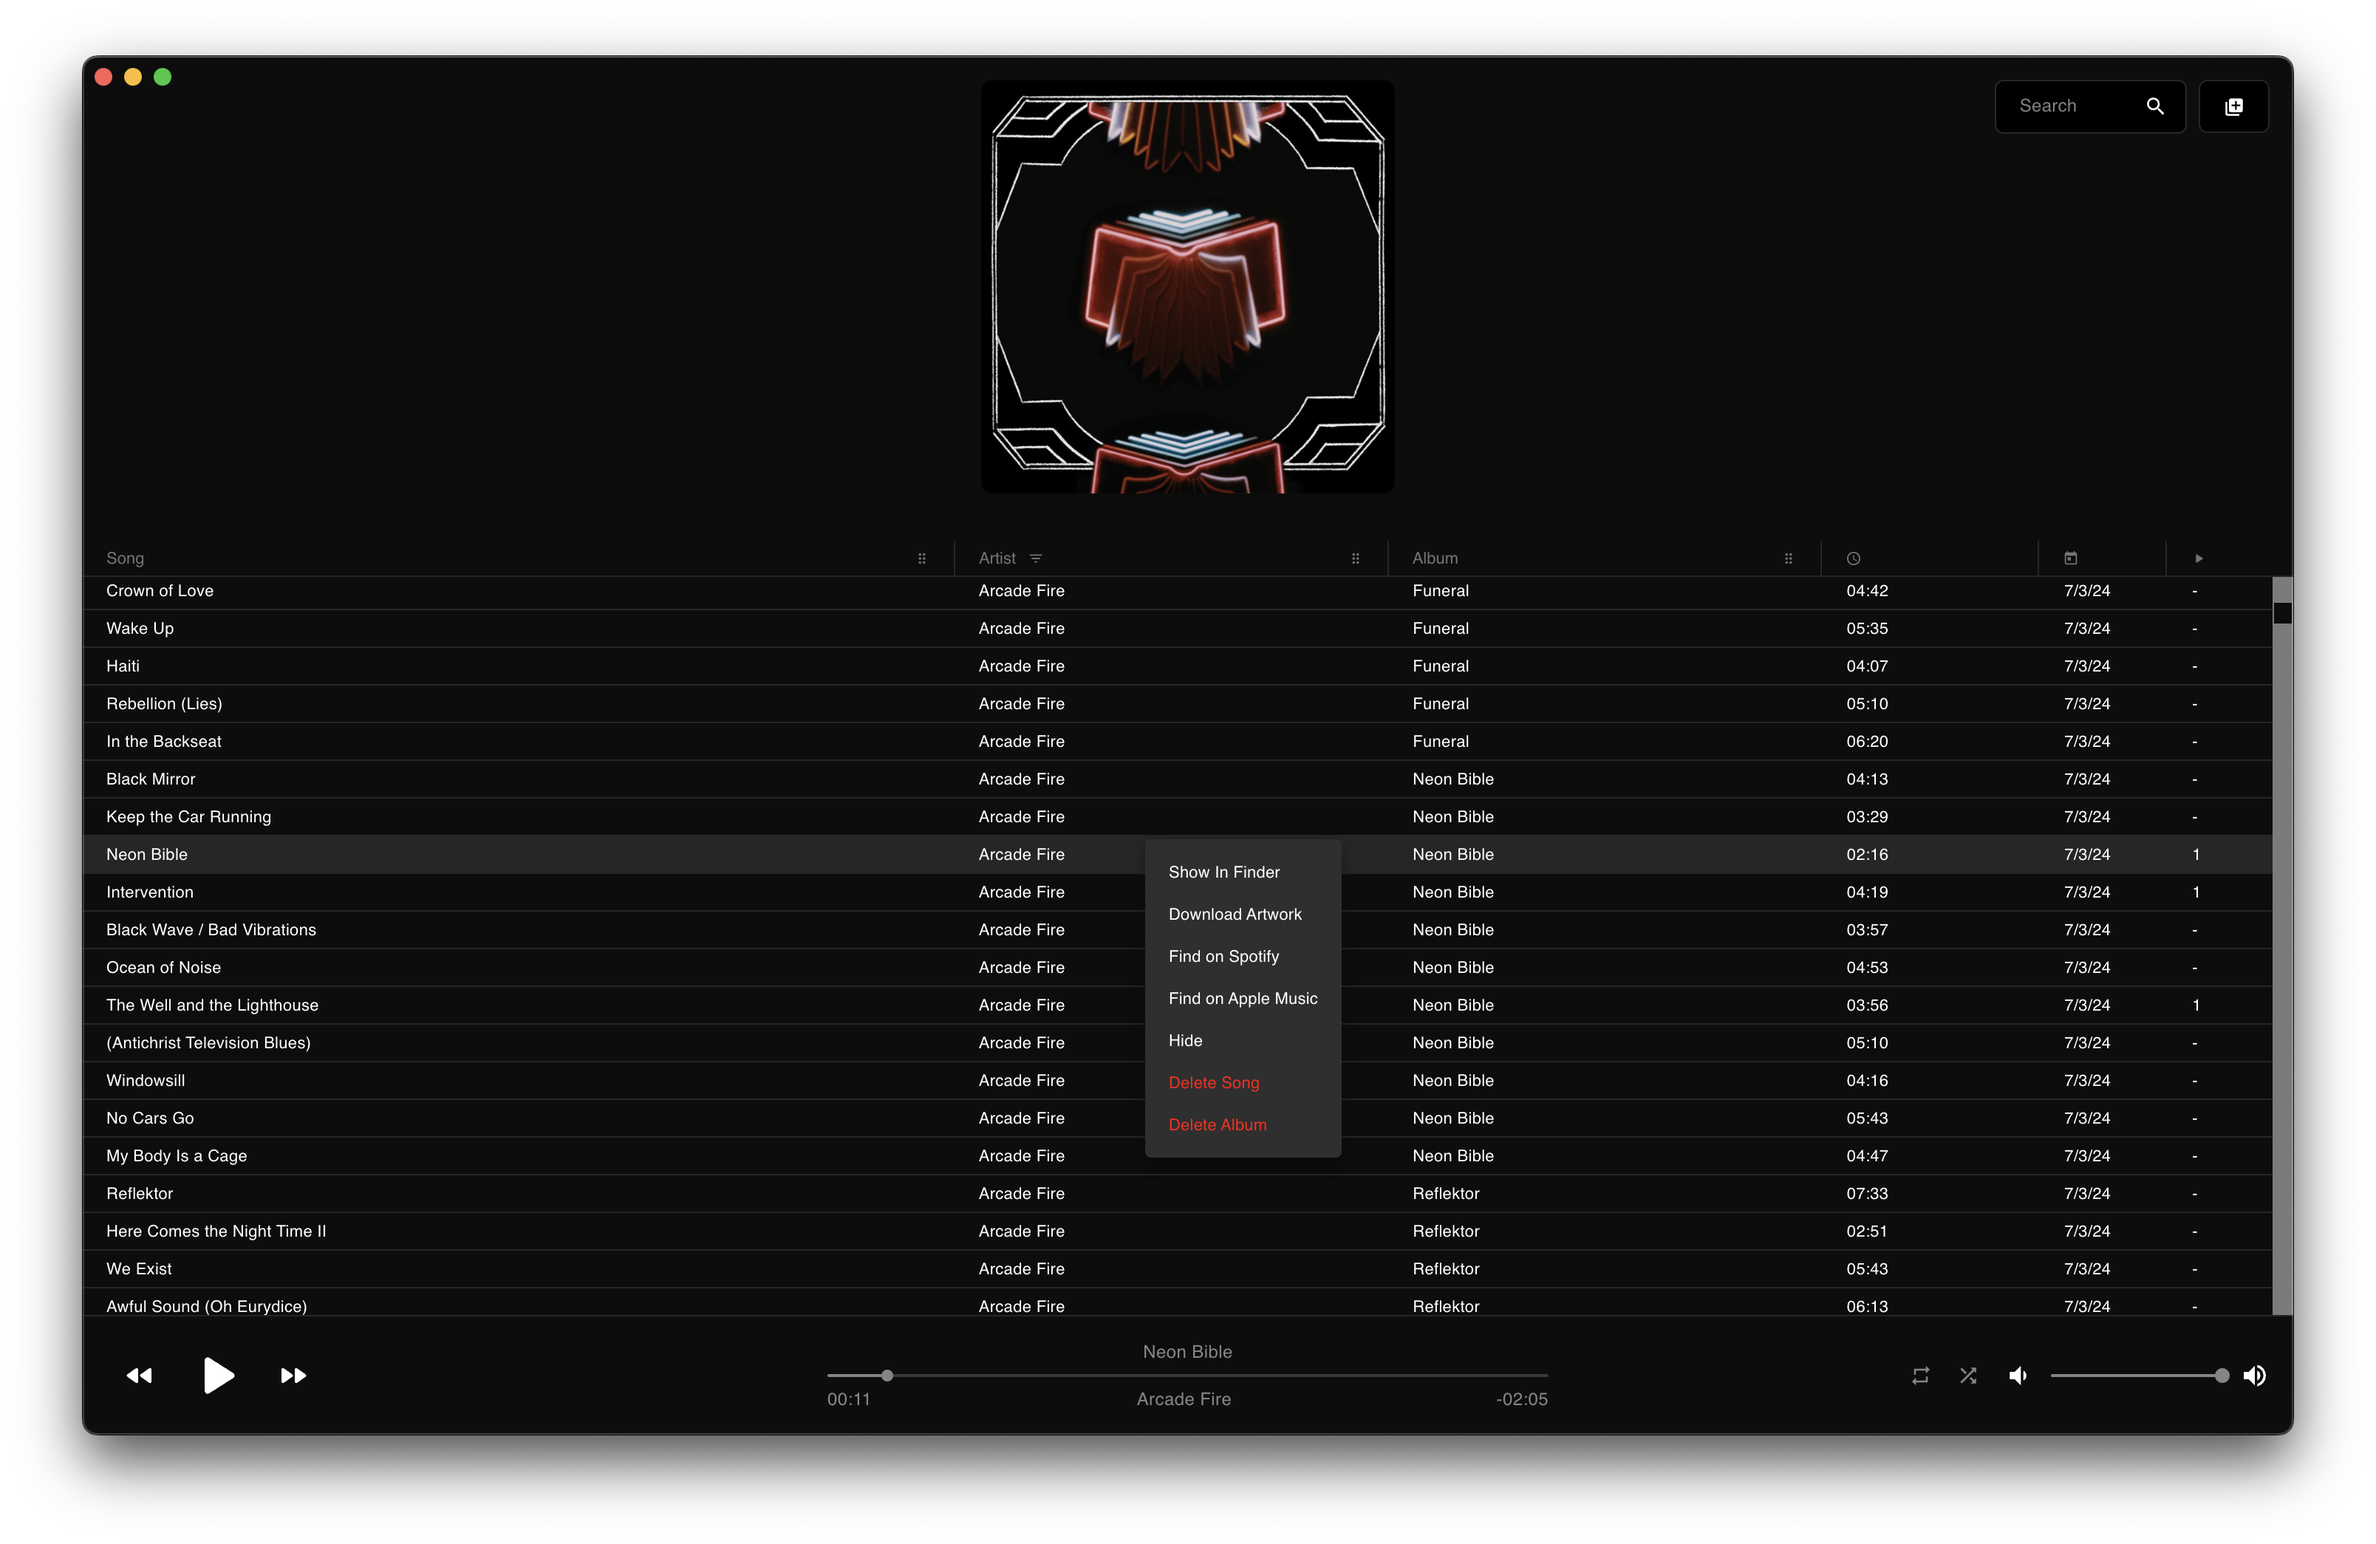
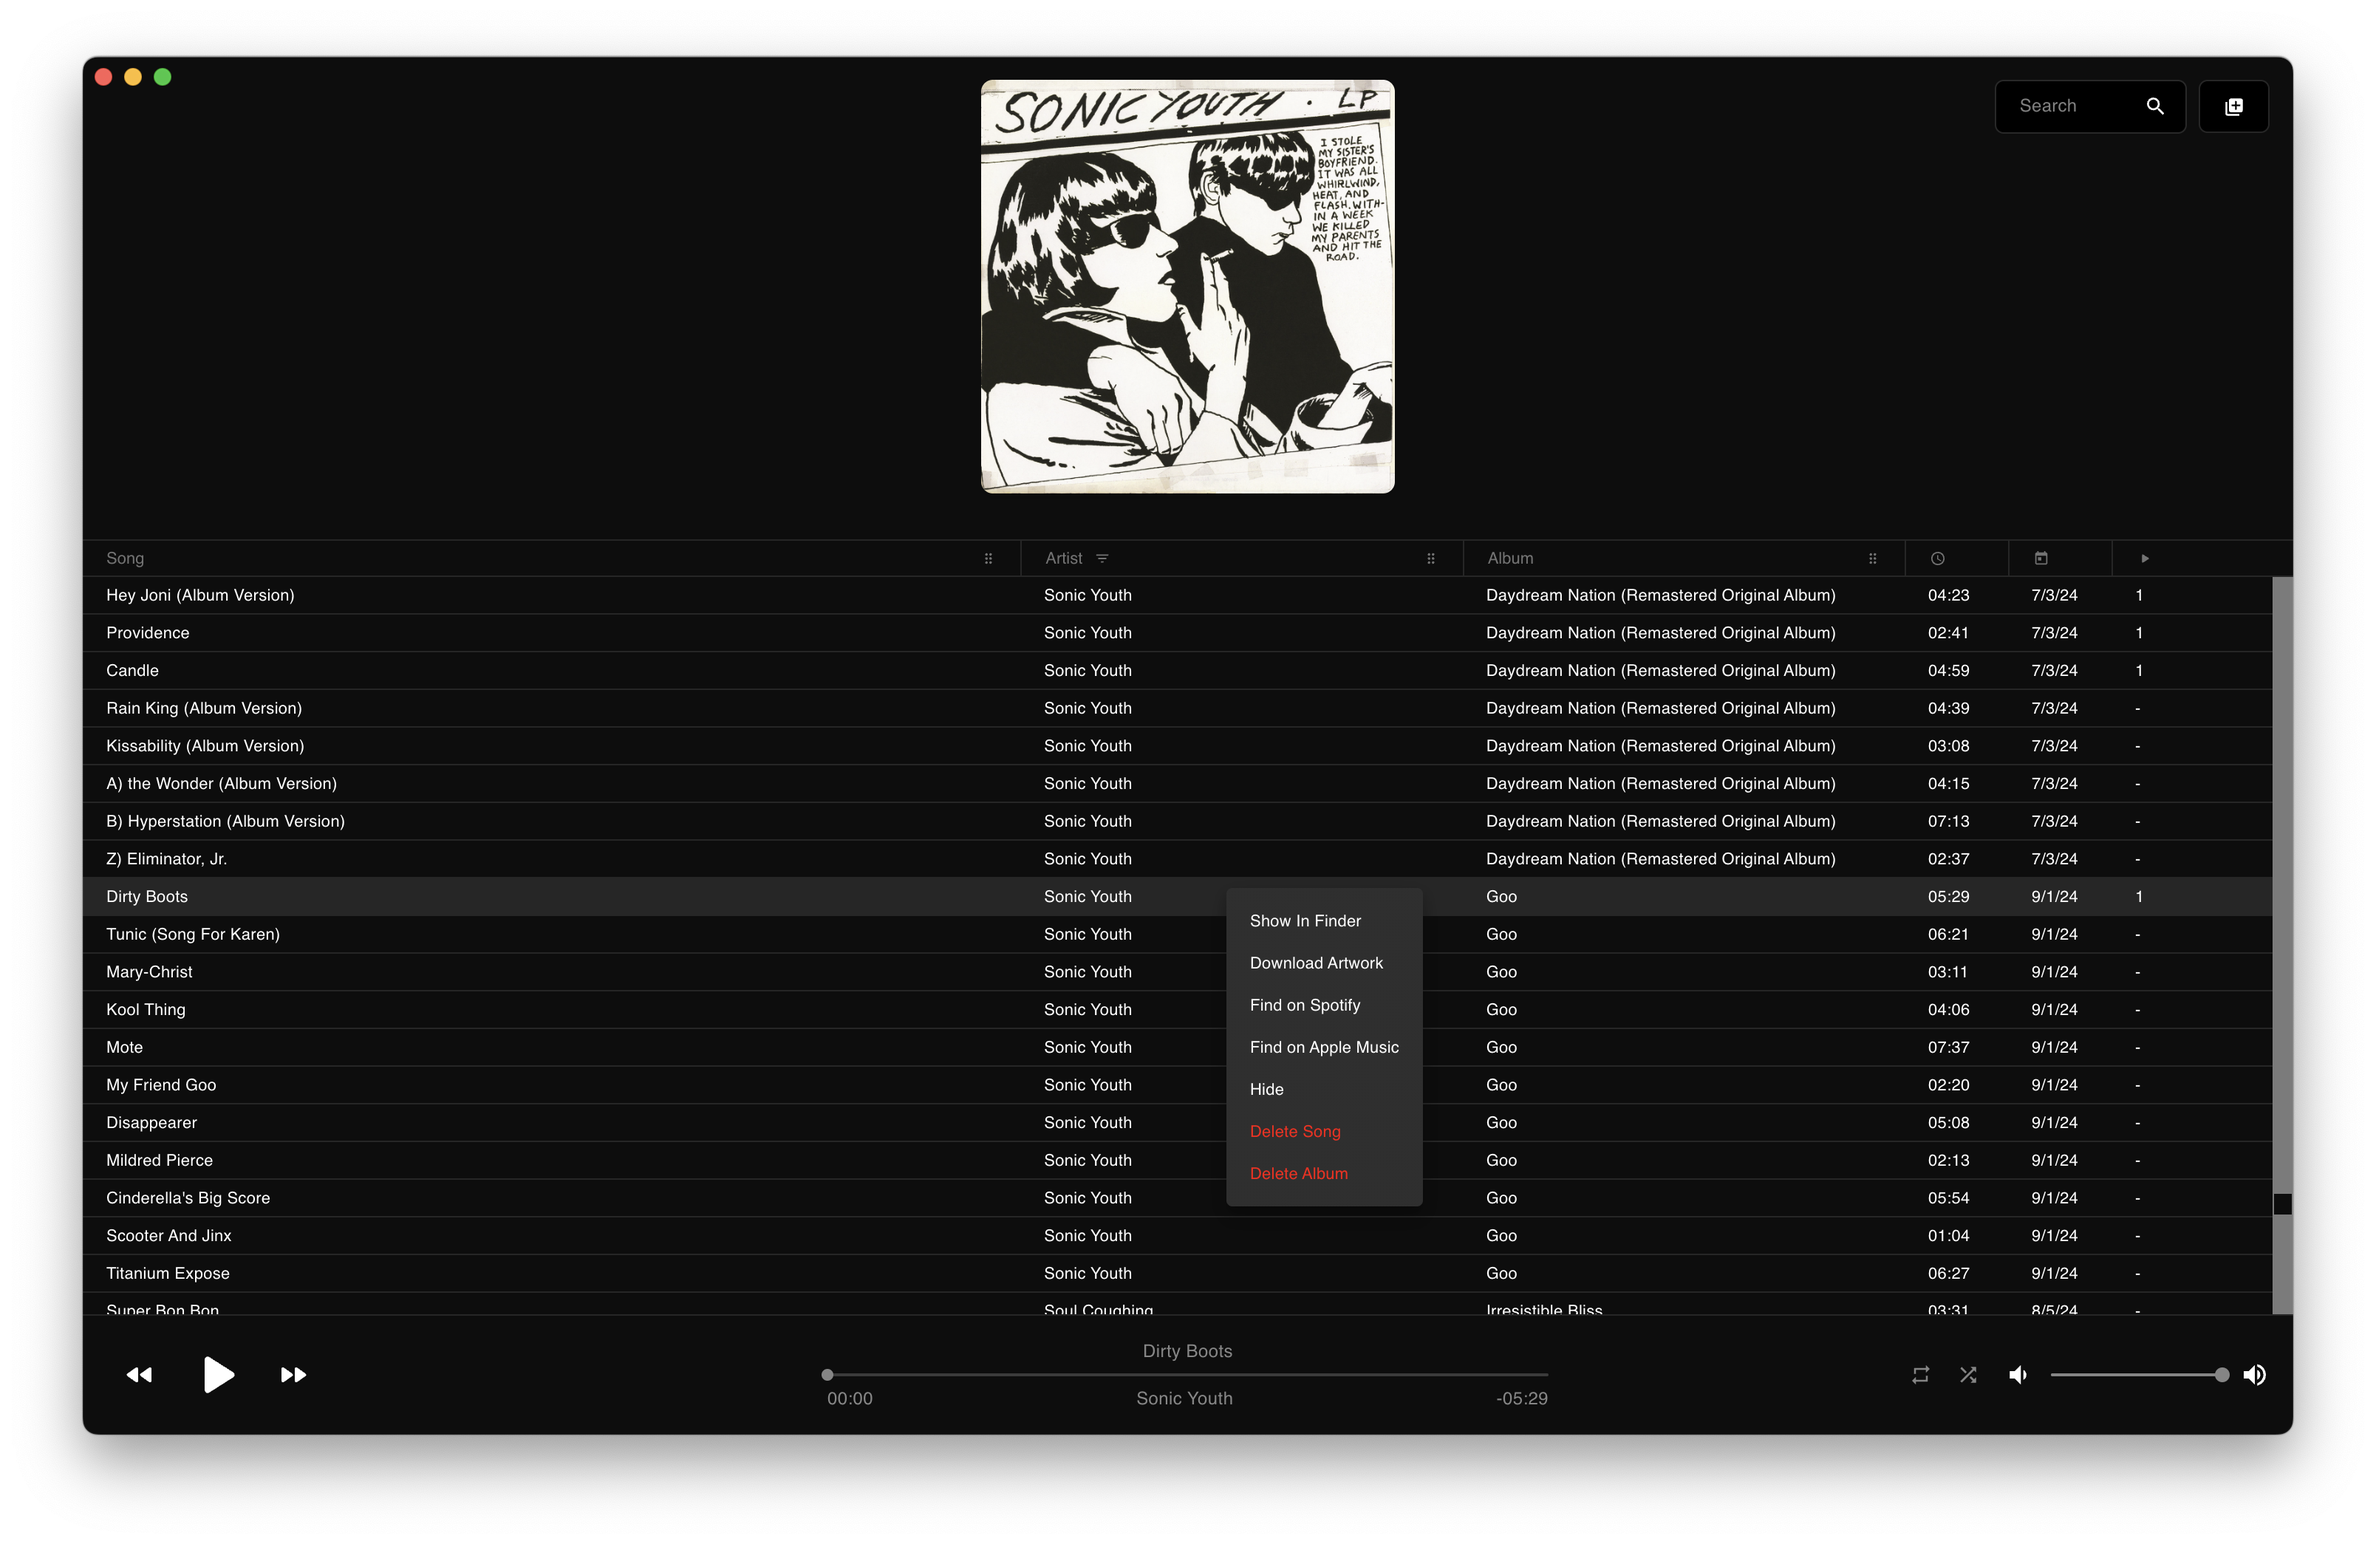
Style Cleanup + Rsync Edge Case Handler (#21)
* player height always 120px high
* upgrade preview: use sonic youth for fun
* bug fix: no infinite backup recursion

Changed region(s): [[0.0311, 0.0311, 0.995, 0.9641]]

diff --git a/src/renderer/components/LibraryList.tsx b/src/renderer/components/LibraryList.tsx
@@ -366,7 +366,7 @@ export default function LibraryList({
           });
         }}
         data-state={song === currentSong ? 'selected' : undefined}
-        className="flex w-full items-center border-b border-neutral-800 transition-colors hover:bg-neutral-800/50 data-[state=selected]:bg-neutral-800 py-1 divide-neutral-50"
+        className="flex w-full items-center border-b last:border-b-0 border-neutral-800 transition-colors hover:bg-neutral-800/50 data-[state=selected]:bg-neutral-800 py-1 divide-neutral-50"
       >
         <div
           className={`select-none whitespace-nowrap	overflow-hidden py-1 px-4 align-middle [&amp;:has([role=checkbox])]:pr-0`}
@@ -429,7 +429,7 @@ export default function LibraryList({
   const hasSongs = Object.keys(filteredLibrary || {}).length;
 
   return (
-    <div className="w-full overflow-auto">
+    <div className="w-full">
       {/**
        * @dev this is the menu that pops up when the user right clicks on a song
        */}
@@ -445,7 +445,7 @@ export default function LibraryList({
           songInfo={songMenu?.songInfo}
         />
       )}
-      <div className="w-full text-[11px]  mb-[1px]">
+      <div className="w-full text-[11px]">
         <div className="sticky top-0 z-50 bg-[#0d0d0d] outline outline-offset-0 outline-1 mb-[1px] outline-neutral-800">
           <div className="flex transition-colors divide-neutral-800 divide-x mr-4">
             {FILTER_TYPES.map((filter, index) => (

diff --git a/src/renderer/components/MainDash.tsx b/src/renderer/components/MainDash.tsx
@@ -434,7 +434,7 @@ export default function MainDash() {
     const playerHeight = document.querySelector('.player')?.clientHeight || 0;
 
     if (height) {
-      setRowContainerHeight(height - playerHeight - artContainerHeight - 1);
+      setRowContainerHeight(height - playerHeight - artContainerHeight - 26);
     }
   }, [height, width]);
 
@@ -453,10 +453,10 @@ export default function MainDash() {
 
       const artContainerHeight =
         document.querySelector('.art')?.clientHeight || 0;
-      const playerHeight = document.querySelector('.player')?.clientHeight || 0;
 
       if (height) {
-        setRowContainerHeight(height - playerHeight - artContainerHeight);
+        // since the player has no actual height, we use 120 to implicitly set the height
+        setRowContainerHeight(height - 120 - artContainerHeight);
       }
 
       if (arg.lastPlayedSong) {
@@ -752,7 +752,7 @@ export default function MainDash() {
        *  -- import button
        *  -- search bar etc
        */}
-      <div className="flex art drag justify-center p-4 pb-8 space-x-4 md:flex-row">
+      <div className="flex art drag justify-center p-4 pb-8 space-x-4 md:flex-row ">
         {/**
          * @dev ALBUM ART (OR PLACEHOLDER)
          */}

diff --git a/src/main/main.ts b/src/main/main.ts
@@ -840,6 +840,17 @@ ipcMain.on('menu-backup-library', async (event, _arg): Promise<any> => {
 
   const backupPath = result.filePaths[0];
 
+  if (
+    backupPath === libraryPath ||
+    backupPath.startsWith(libraryPath + path.sep)
+  ) {
+    event.reply(
+      'backup-library-error',
+      'Cannot backup to the same folder or its subfolder',
+    );
+    return;
+  }
+
   if (backupPath) {
     const rsync = new Rsync();
 

diff --git a/src/renderer/components/StaticPlayer.tsx b/src/renderer/components/StaticPlayer.tsx
@@ -46,7 +46,7 @@ export default function StaticPlayer({
   return (
     <div
       className="player flex flex-col sm:flex-row items-center
-       justify-between drag gap-1 sm:gap-10 fixed inset-x-0 border-t
+       justify-between drag gap-1 sm:gap-10 inset-x-0 border-t
        border-neutral-800 bottom-0 bg-[#0d0d0d] shadow-md px-4 pb-4 pt-0 sm:pb-2 sm:pt-2
        "
     >

diff --git a/src/renderer/App.scss b/src/renderer/App.scss
@@ -24,7 +24,7 @@ html {
 }
 
 .shell {
-  height: calc(100% - 1.5rem);
+  height: 100%;
   -webkit-app-region: no-drag;
   overflow: hidden;
 }
